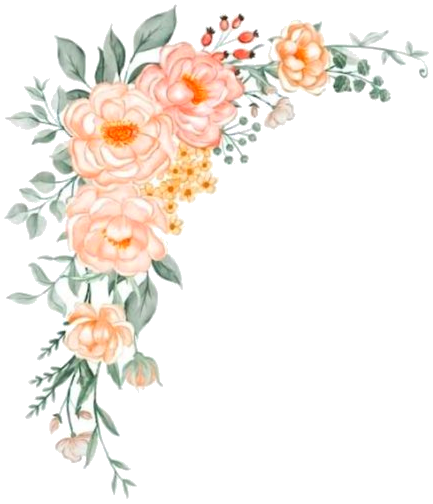
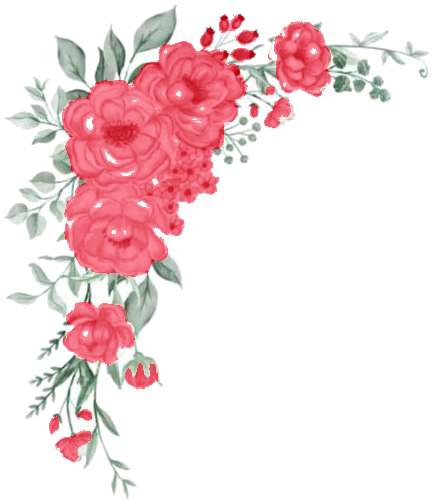
added changes

Changed region(s): [[0.1201, 0.0298, 0.7806, 0.5655], [0.1501, 0.5952, 0.3603, 0.7738], [0.0901, 0.8036, 0.2102, 0.9226]]

diff --git a/index.html b/index.html
@@ -816,7 +816,7 @@ body {
   }
 }
 
-/* Keep Haldi & Mehndi lower image edge-to-edge at bottom, compact height matching Sangeet & Jaggo */
+/* Keep Haldi & Mehandi lower image edge-to-edge at bottom, compact height matching Sangeet & Jaggo */
 #section-haldi .sunset-terrace-img {
   width: 100%;
   height: clamp(210px, 35vh, 320px);
@@ -2254,9 +2254,9 @@ body.doors-locked .btn-music-toggle {
     <span class="nav-dot"></span>
     <span class="nav-label">Sangeet & Jaggo</span>
   </a>
-  <a href="#section-haldi" class="nav-pill" data-target="section-haldi" title="Haldi & Mehndi">
+  <a href="#section-haldi" class="nav-pill" data-target="section-haldi" title="Haldi & Mehandi">
     <span class="nav-dot"></span>
-    <span class="nav-label">Haldi & Mehndi</span>
+    <span class="nav-label">Haldi & Mehandi</span>
   </a>
   <a href="#section-wedding" class="nav-pill" data-target="section-wedding" title="Royal Wedding">
     <span class="nav-dot"></span>
@@ -2506,12 +2506,12 @@ body.doors-locked .btn-music-toggle {
 </div>
 
 <!-- ============================================================
-     FULL-SCREEN EVENT 2B: HALDI & MEHNDI
+     FULL-SCREEN EVENT 2B: HALDI & MEHANDI
      ============================================================ -->
 <section class="fullscreen-event-section" id="section-haldi">
   <div class="section-bg-layer" aria-hidden="true"></div>
 
-  <!-- Haldi & Mehndi Sunset Terrace Artwork -->
+  <!-- Haldi & Mehandi Sunset Terrace Artwork -->
   <div class="sunset-terrace-layer" aria-hidden="true">
     <img src="image/Haldi_background.jpeg" class="sunset-terrace-img" alt="" />
   </div>
@@ -2527,7 +2527,7 @@ body.doors-locked .btn-music-toggle {
       </svg>
     </div>
     <div class="ceremony-title-banner">
-      <h2 class="ceremony-title-heading">HALDI &amp; MEHNDI</h2>
+      <h2 class="ceremony-title-heading">HALDI &amp; MEHANDI</h2>
     </div>
 
     <div class="invite-pleasure-text" style="margin-top: 4px;">
@@ -2553,7 +2553,7 @@ body.doors-locked .btn-music-toggle {
         </div>
 
         <div class="schedule-item" style="margin-top: 4px;">
-          <span class="schedule-item-label">MEHNDI (EVENING)</span>
+          <span class="schedule-item-label">MEHANDI (EVENING)</span>
           <span class="schedule-item-time">5:00 PM</span>
         </div>
       </div>
@@ -2772,8 +2772,8 @@ body.doors-locked .btn-music-toggle {
               <span class="save-date-weekday">Sunday</span>
             </div>
             <div class="save-date-info">
-              <div class="save-date-event">Haldi &amp; Mehndi</div>
-              <div class="save-date-time">Haldi 10:00 AM &bull; Mehndi 5:00 PM</div>
+              <div class="save-date-event">Haldi &amp; Mehandi</div>
+              <div class="save-date-time">Haldi 10:00 AM &bull; Mehandi 5:00 PM</div>
               <div class="save-date-venue">Residence: #509, Phase-4, Mohali</div>
             </div>
           </div>
